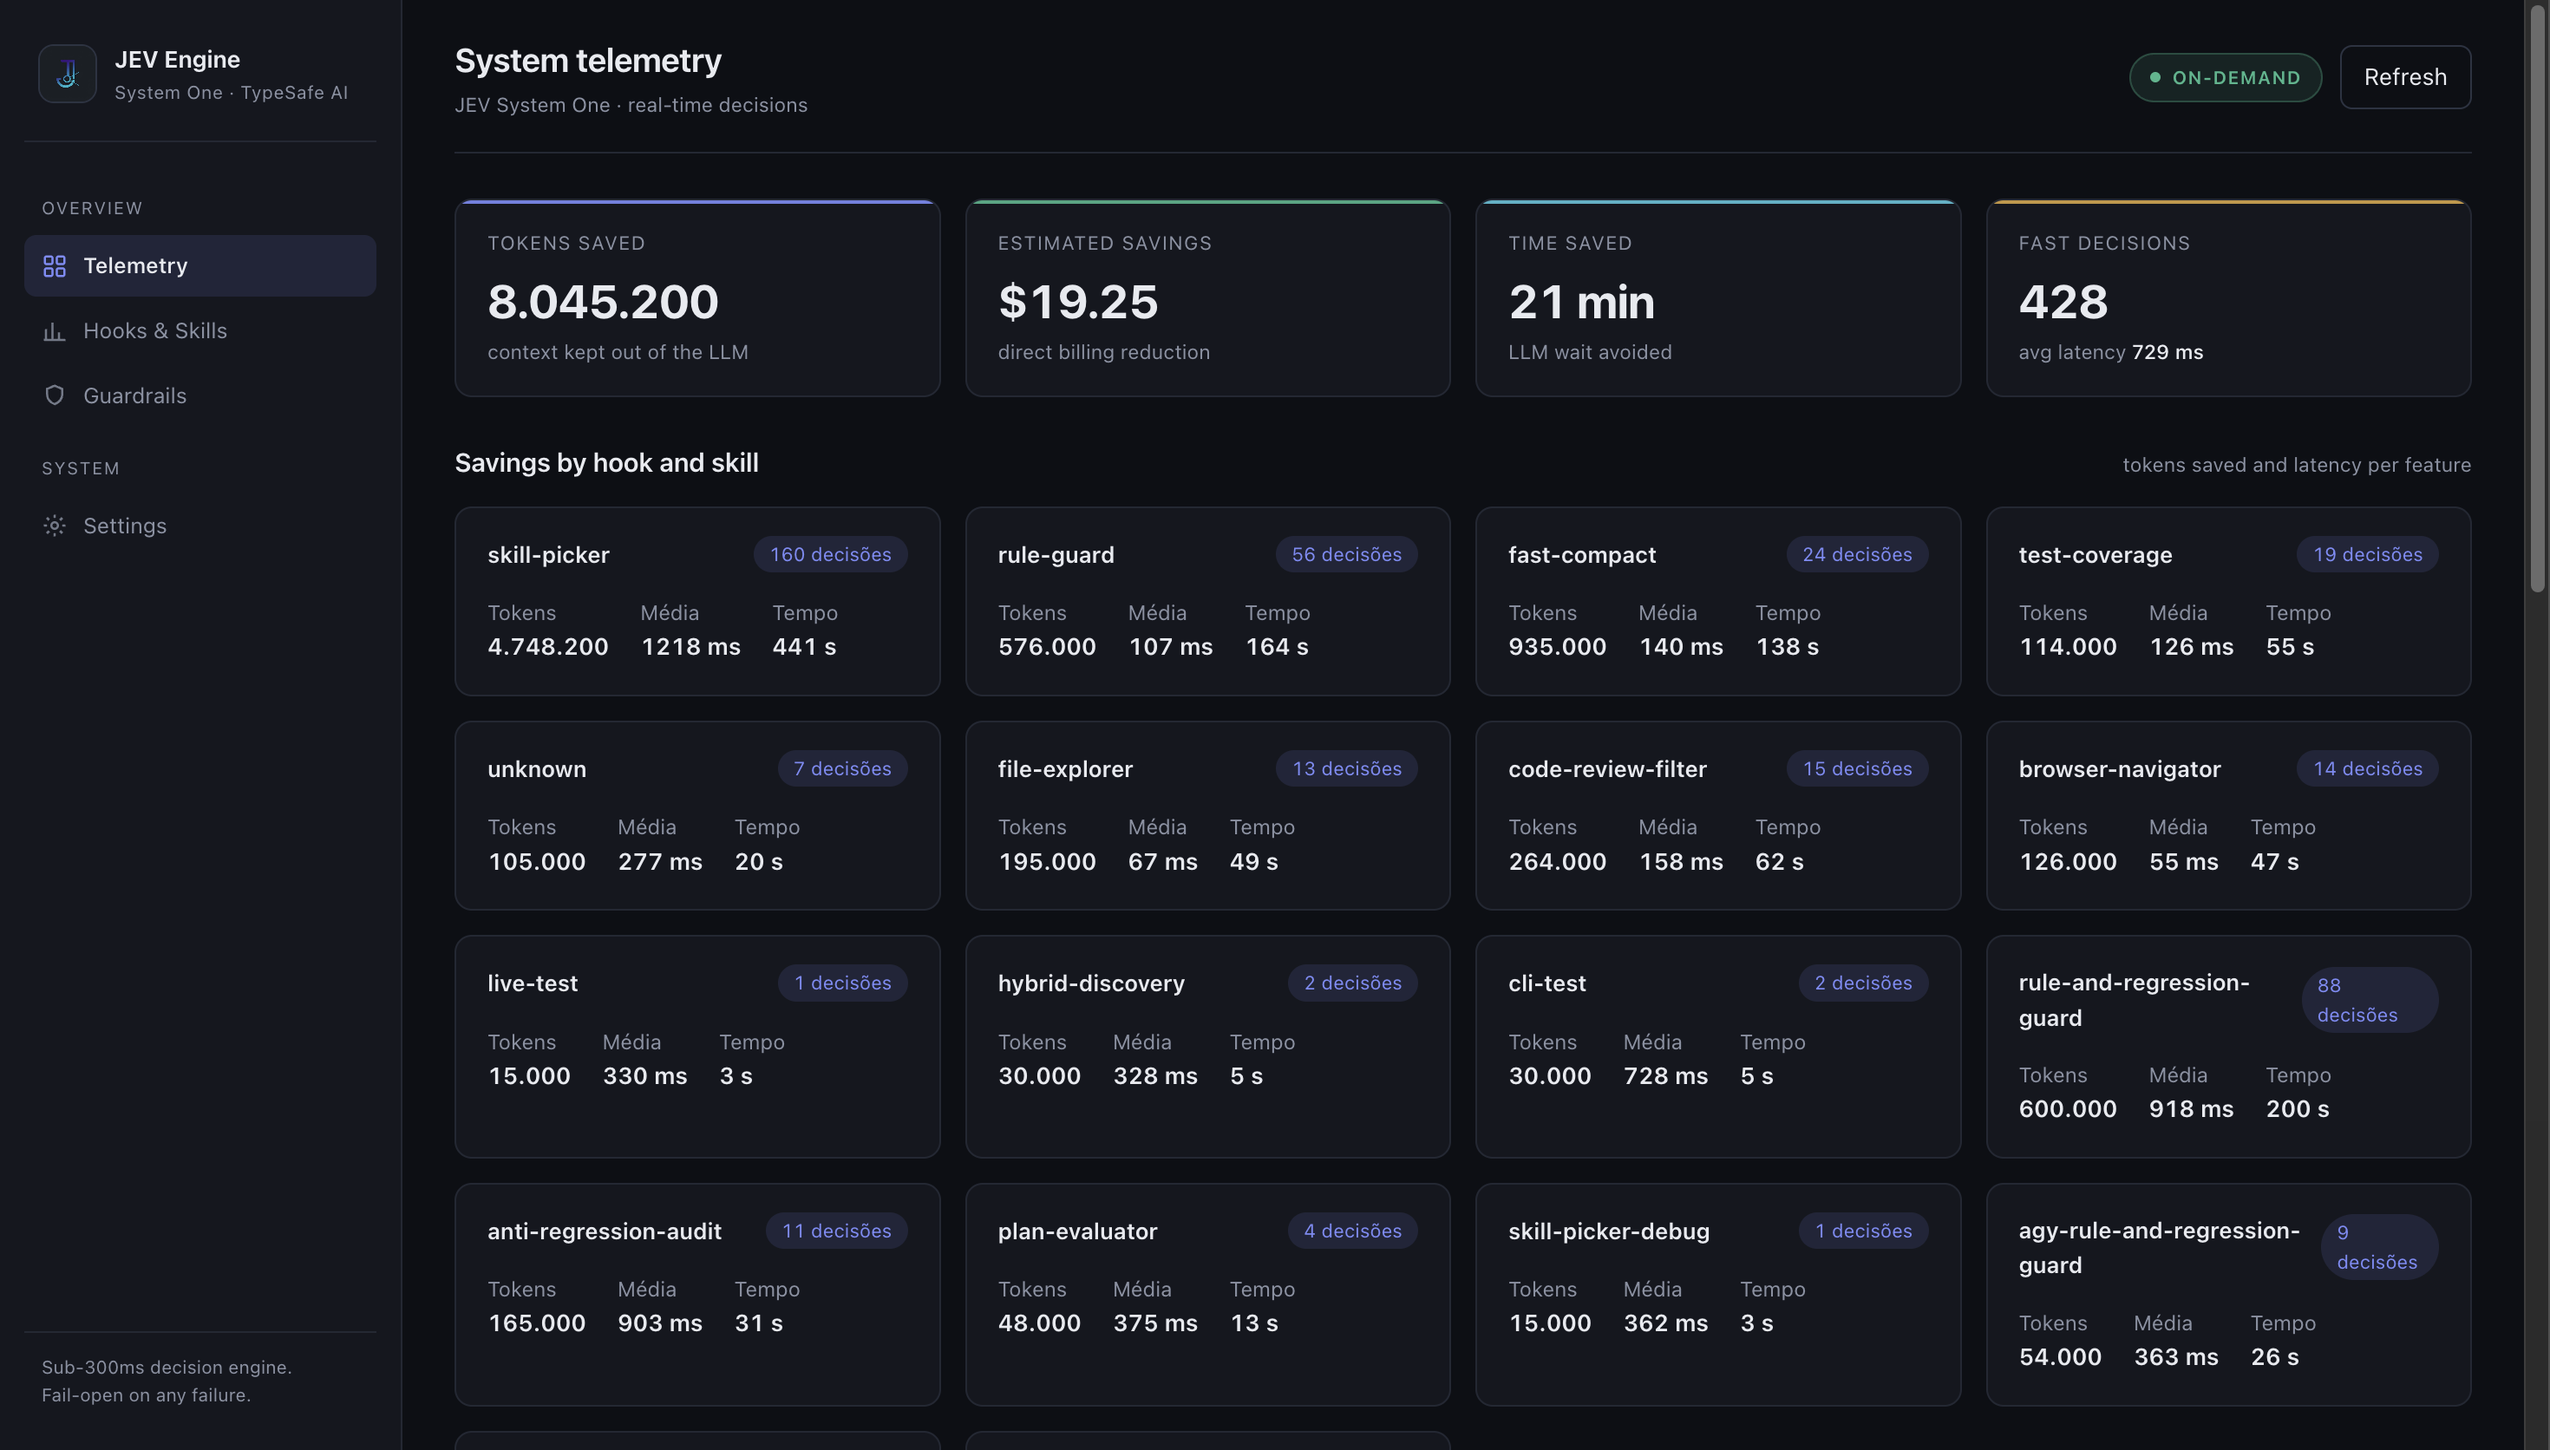
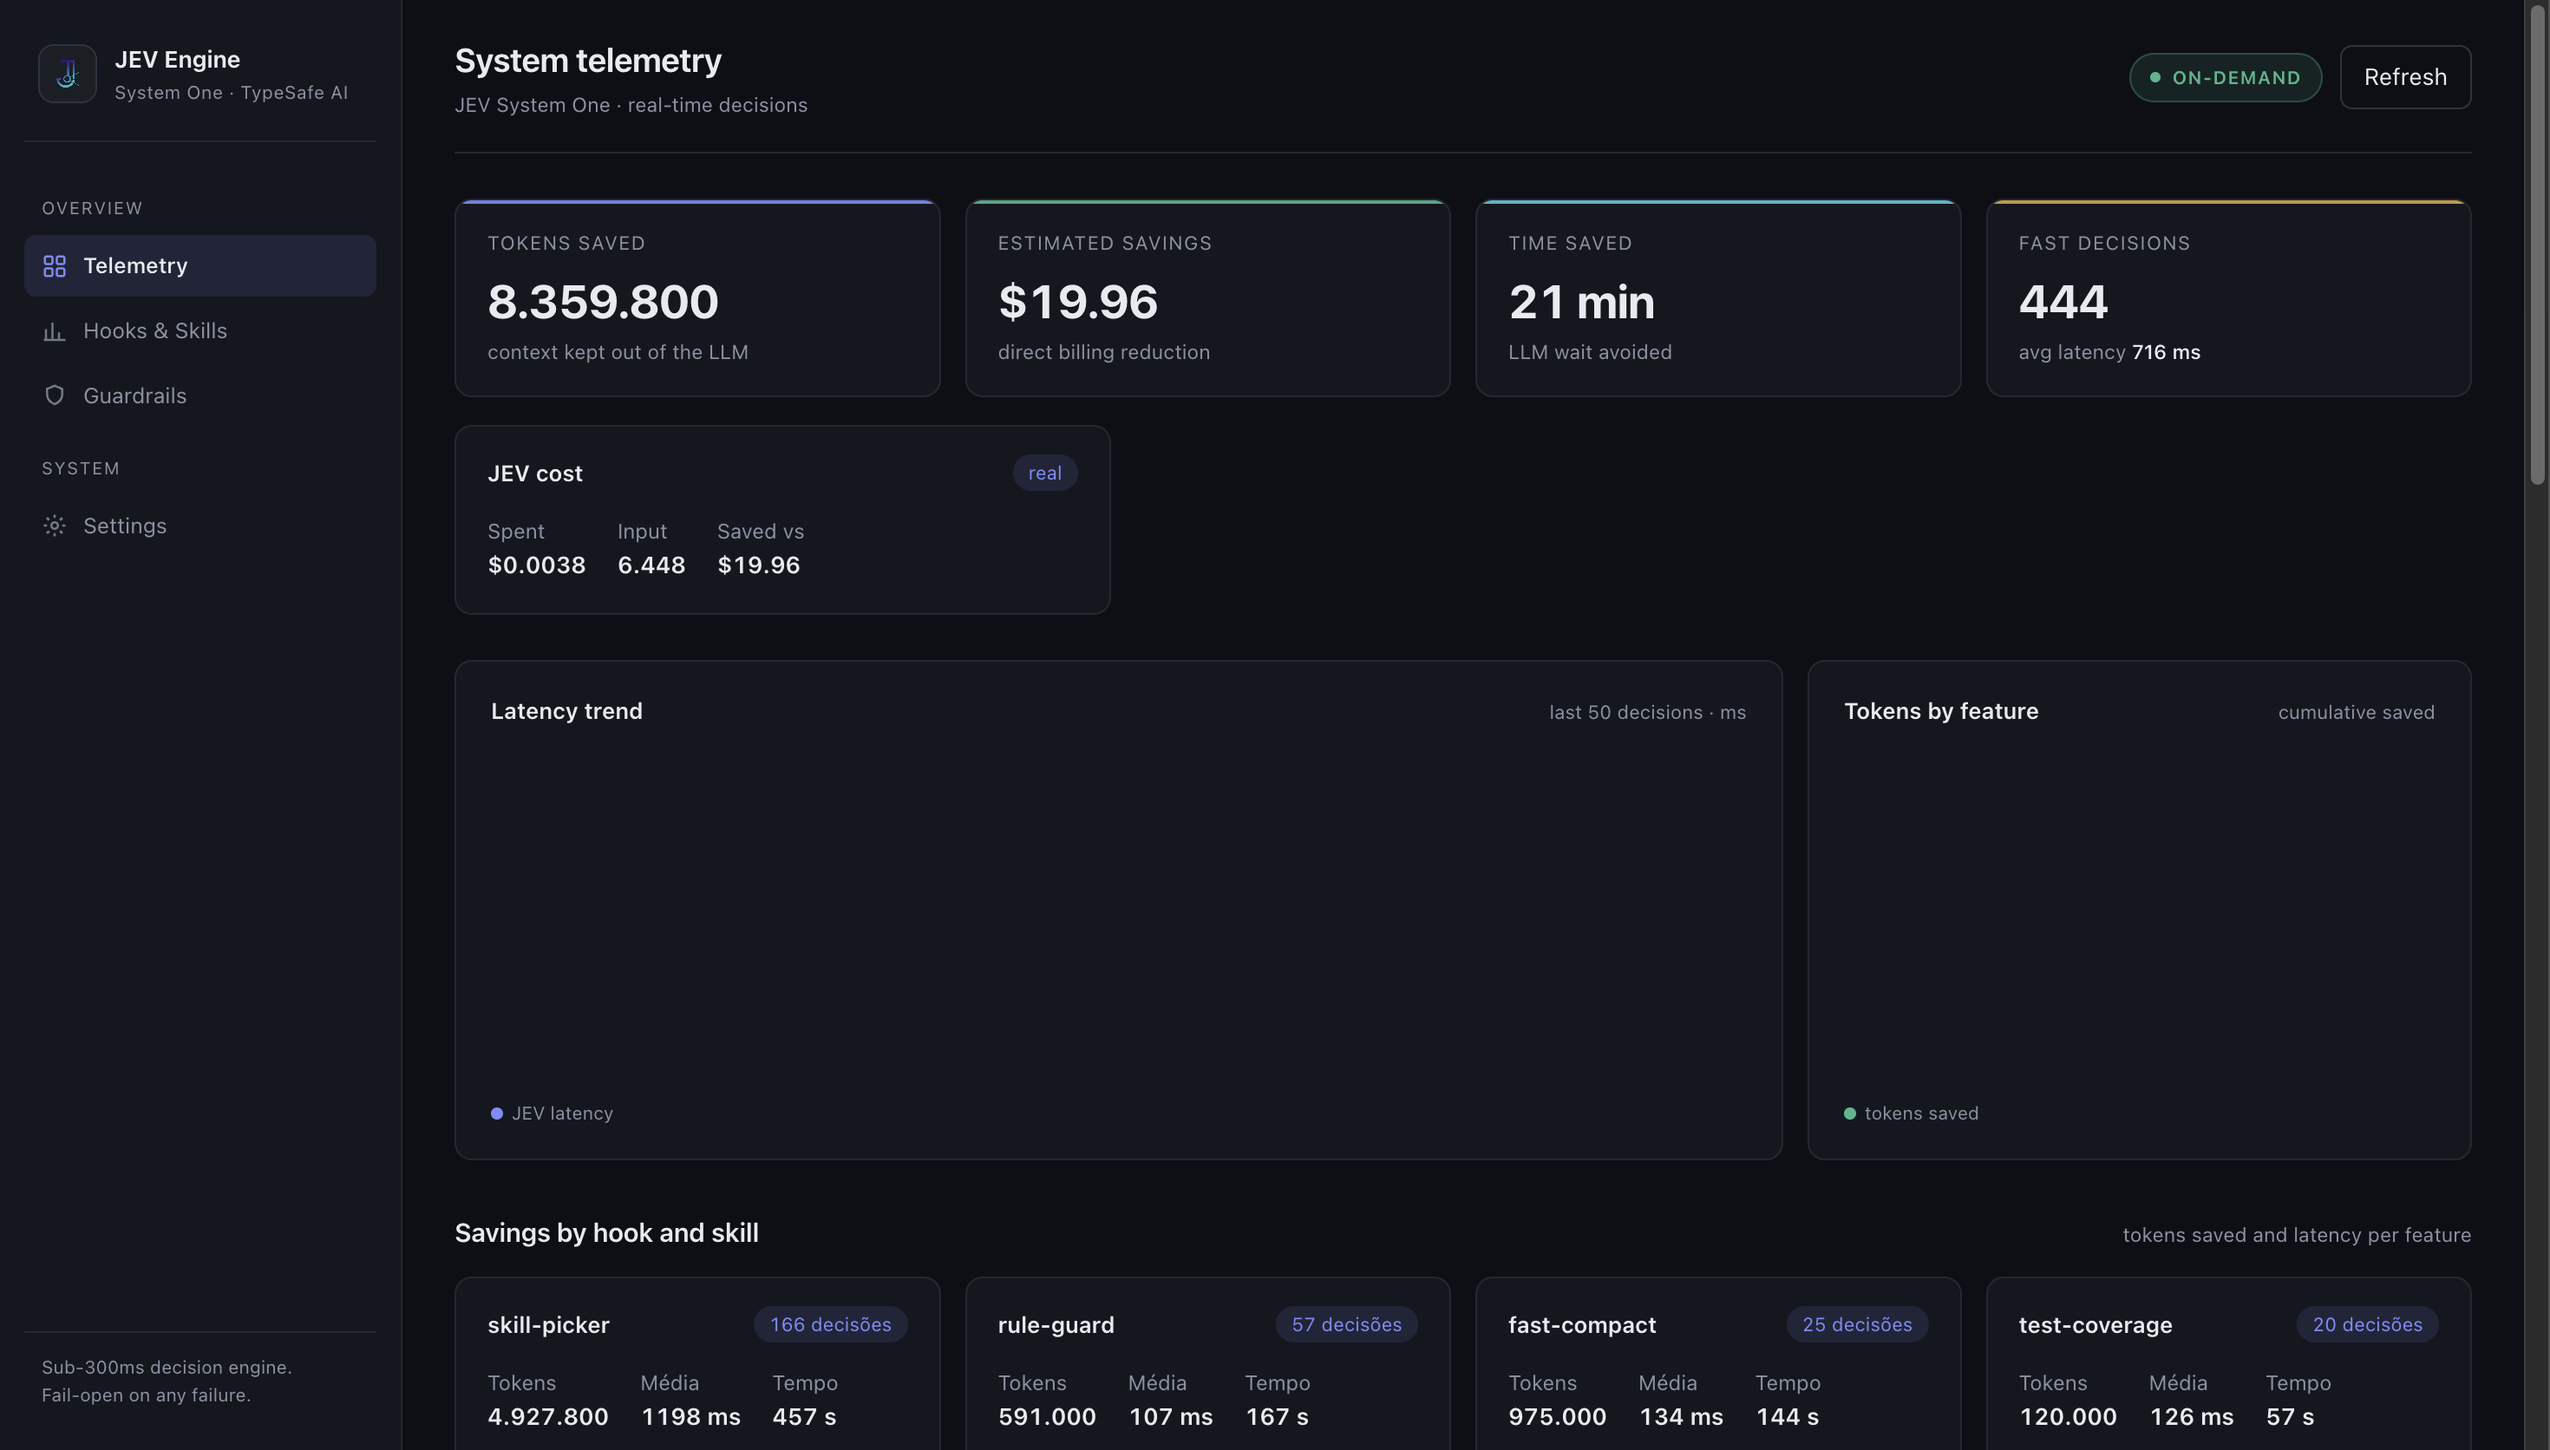
feat(dashboard): track real JEV spend via API usage tokens
TypeSafe API has no billing endpoint, but returns usage.input_tokens per
request. Client now records real input tokens and computes actual cost
($0.04/M input, $0 output); telemetry sums total_jev_cost_usd and
total_jev_input_tokens. Dashboard adds 'JEV cost' card showing real
spend, input tokens, and savings vs LLM. Screenshot updated.

diff --git a/src/dashboard.js b/src/dashboard.js
@@ -153,6 +153,27 @@ export function createDashboardHtml(initialData, projectDir) {
     .section-title { font-size: 15px; font-weight: 600; letter-spacing: -0.01em; }
     .section-note { font-size: 11.5px; color: var(--muted); }
 
+    /* ---- Charts ---- */
+    .charts-row { display: grid; grid-template-columns: 2fr 1fr; gap: 14px; margin-bottom: 30px; }
+    @media (max-width: 1100px) { .charts-row { grid-template-columns: 1fr; } }
+    .chart-card {
+      background: var(--surface);
+      border: 1px solid var(--border); border-radius: 10px;
+      padding: 18px 20px;
+    }
+    .chart-head { display: flex; justify-content: space-between; align-items: baseline; margin-bottom: 14px; }
+    .chart-title { font-weight: 600; font-size: 13px; }
+    .chart-sub { font-size: 11px; color: var(--muted); }
+    .chart-svg { width: 100%; height: 190px; display: block; }
+    .chart-svg .grid-line { stroke: var(--border); stroke-width: 1; }
+    .chart-svg .axis-label { fill: var(--muted); font-size: 9px; }
+    .chart-svg .bar { fill: var(--accent); }
+    .chart-svg .bar:hover { opacity: 0.8; }
+    .chart-legend { display: flex; gap: 14px; font-size: 10.5px; color: var(--muted); margin-top: 10px; }
+    .chart-legend .dot { width: 7px; height: 7px; border-radius: 50%; display: inline-block; margin-right: 5px; }
+    .chart-legend .dot.lat { background: var(--accent); }
+    .chart-legend .dot.tok { background: var(--good); }
+
     /* ---- Feature cards ---- */
     .grid {
       display: grid; grid-template-columns: repeat(auto-fill, minmax(280px, 1fr)); gap: 14px;
@@ -274,6 +295,38 @@ export function createDashboardHtml(initialData, projectDir) {
       </div>
     </div>
 
+    <div class="section" style="margin-top:-10px; margin-bottom:26px;">
+      <div class="grid" style="grid-template-columns: repeat(3, 1fr);">
+        <div class="card">
+          <div class="card-head"><span class="card-title">JEV cost</span><span class="card-count">real</span></div>
+          <div class="card-stats">
+            <div class="stat">Spent<strong id="val-jevcost">...</strong></div>
+            <div class="stat">Input<strong id="val-jevtokens">...</strong></div>
+            <div class="stat">Saved vs<strong id="val-jevsaved">...</strong></div>
+          </div>
+        </div>
+      </div>
+    </div>
+
+    <div class="charts-row">
+      <div class="chart-card">
+        <div class="chart-head">
+          <div class="chart-title">Latency trend</div>
+          <div class="chart-sub">last 50 decisions · ms</div>
+        </div>
+        <svg class="chart-svg" id="chart-latency" viewBox="0 0 400 190" preserveAspectRatio="none"></svg>
+        <div class="chart-legend"><span><span class="dot lat"></span>JEV latency</span></div>
+      </div>
+      <div class="chart-card">
+        <div class="chart-head">
+          <div class="chart-title">Tokens by feature</div>
+          <div class="chart-sub">cumulative saved</div>
+        </div>
+        <svg class="chart-svg" id="chart-features" viewBox="0 0 400 190" preserveAspectRatio="none"></svg>
+        <div class="chart-legend"><span><span class="dot tok"></span>tokens saved</span></div>
+      </div>
+    </div>
+
     <div class="section">
       <div class="section-head">
         <div class="section-title">Savings by hook and skill</div>
@@ -329,6 +382,9 @@ export function createDashboardHtml(initialData, projectDir) {
 
       document.getElementById('val-decisions').innerText = (data.total_decisions || 0).toLocaleString('pt-BR');
       document.getElementById('val-latency').innerText = (data.avg_jev_latency_ms || 0) + ' ms';
+      document.getElementById('val-jevcost').innerText = '$' + (data.total_jev_cost_usd || 0).toFixed(4);
+      document.getElementById('val-jevtokens').innerText = (data.total_jev_input_tokens || 0).toLocaleString('pt-BR');
+      document.getElementById('val-jevsaved').innerText = '$' + (data.total_cost_saved_usd || 0).toFixed(2);
 
       const bd = document.getElementById('breakdown-container');
       bd.innerHTML = '';

diff --git a/src/telemetry.js b/src/telemetry.js
@@ -23,6 +23,7 @@ export function recordTelemetry(entry, projectDir = process.cwd()) {
       feature: entry.feature || 'general',
       provider: entry.provider || 'unknown',
       jev_latency_ms: entry.jev_latency_ms || 120,
+      jev_input_tokens: entry.jev_input_tokens || 0,
       jev_cost_usd: entry.jev_cost_usd || 0.000008,
       estimated_llm_latency_ms: entry.estimated_llm_latency_ms || 3000,
       estimated_llm_tokens_saved: entry.estimated_llm_tokens_saved || 15000,
@@ -96,6 +97,8 @@ export function readTelemetrySummary(projectDir = process.cwd()) {
   let totalTimeSavedMs = 0;
   let totalTokensSaved = 0;
   let totalCostSaved = 0;
+  let totalJevCost = 0;
+  let totalJevInputTokens = 0;
   const byFeature = {};
 
   for (const row of entries) {
@@ -104,11 +107,15 @@ export function readTelemetrySummary(projectDir = process.cwd()) {
     const tokens = row.estimated_llm_tokens_saved || 0;
     const cost = row.estimated_llm_cost_saved_usd || 0;
     const feat = row.feature || 'other';
+    const jevCost = row.jev_cost_usd || 0.000008;
+    const jevInput = row.jev_input_tokens || 0;
 
     totalLatency += lat;
     totalTimeSavedMs += timeSaved;
     totalTokensSaved += tokens;
     totalCostSaved += cost;
+    totalJevCost += jevCost;
+    totalJevInputTokens += jevInput;
 
     if (!byFeature[feat]) {
       byFeature[feat] = {
@@ -146,6 +153,8 @@ export function readTelemetrySummary(projectDir = process.cwd()) {
     total_time_saved_sec: Math.round(totalTimeSavedMs / 1000),
     total_tokens_saved: totalTokensSaved,
     total_cost_saved_usd: Number(totalCostSaved.toFixed(4)),
+    total_jev_cost_usd: Number(totalJevCost.toFixed(6)),
+    total_jev_input_tokens: totalJevInputTokens,
     by_feature: byFeatureSummary,
     recent_entries: entries.slice(0, 100)
   };

diff --git a/src/client.js b/src/client.js
@@ -73,10 +73,19 @@ export class JevClient {
         }
       }
 
+      // Real JEV cost from actual input tokens (JEV = $0.04/M input, $0 output).
+      // Falls back to a fixed estimate when the API omits usage.
+      const inputTokens = data?.usage?.input_tokens || meta.inputTokens || 0;
+      const jevCostUsd = inputTokens > 0
+        ? (inputTokens / 1_000_000) * 0.04
+        : 0.000008;
+
       recordTelemetry({
         feature: meta.feature || 'unknown',
         provider: this.config.provider,
         jev_latency_ms: latency,
+        jev_input_tokens: inputTokens,
+        jev_cost_usd: Number(jevCostUsd.toFixed(8)),
         estimated_llm_tokens_saved: meta.tokensSpared || 15000,
         estimated_llm_latency_ms: meta.llmLatency || 3200,
         status: 'success'
